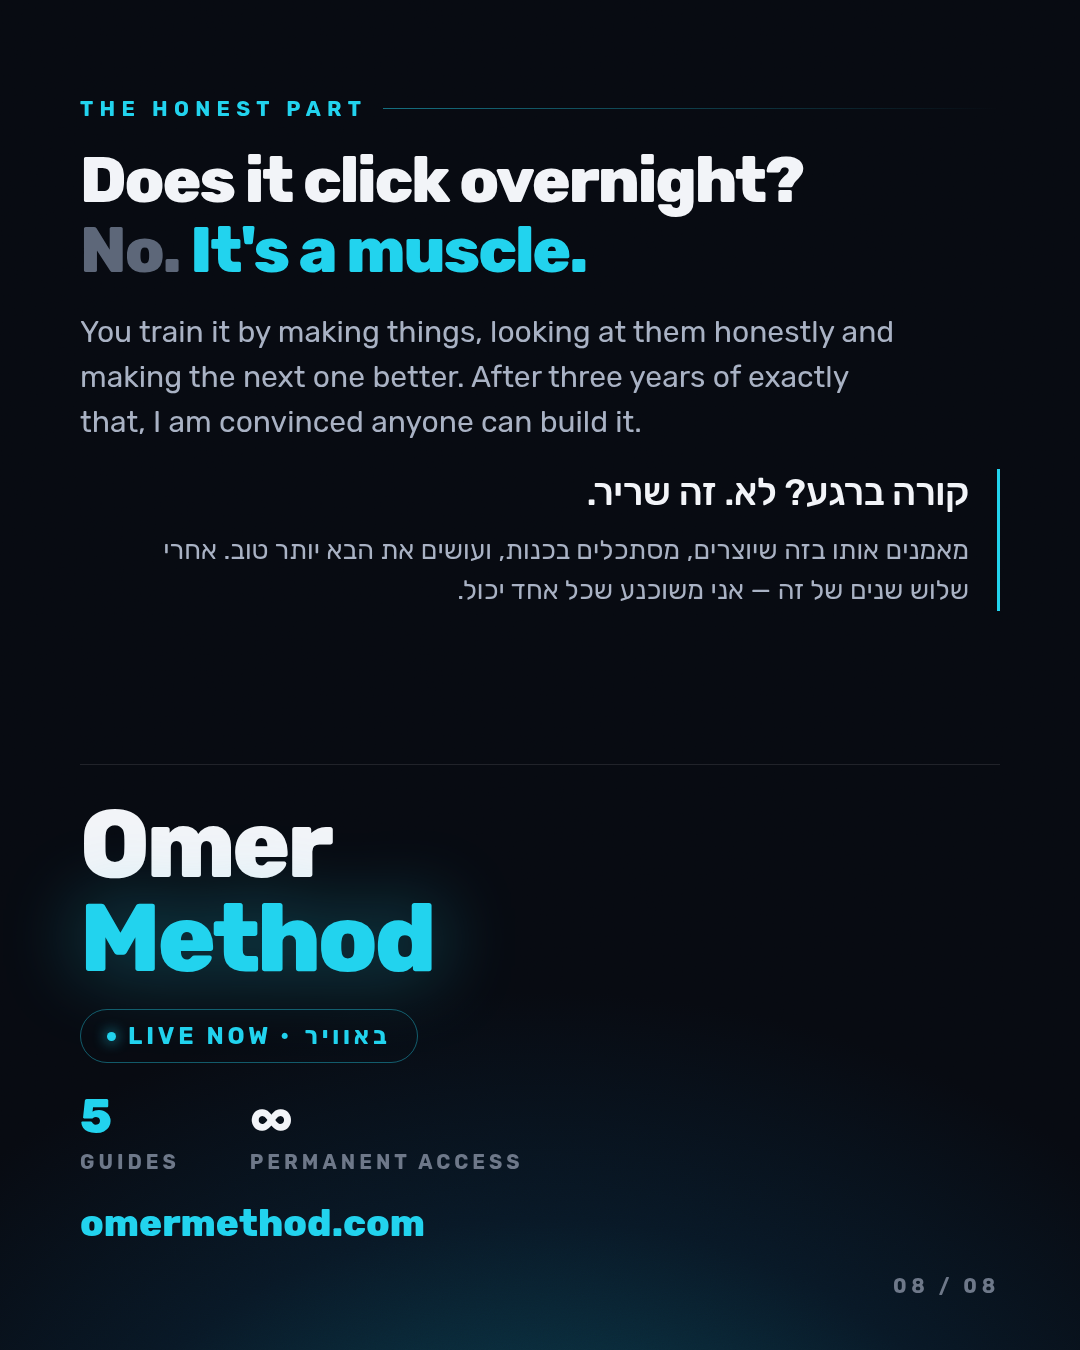
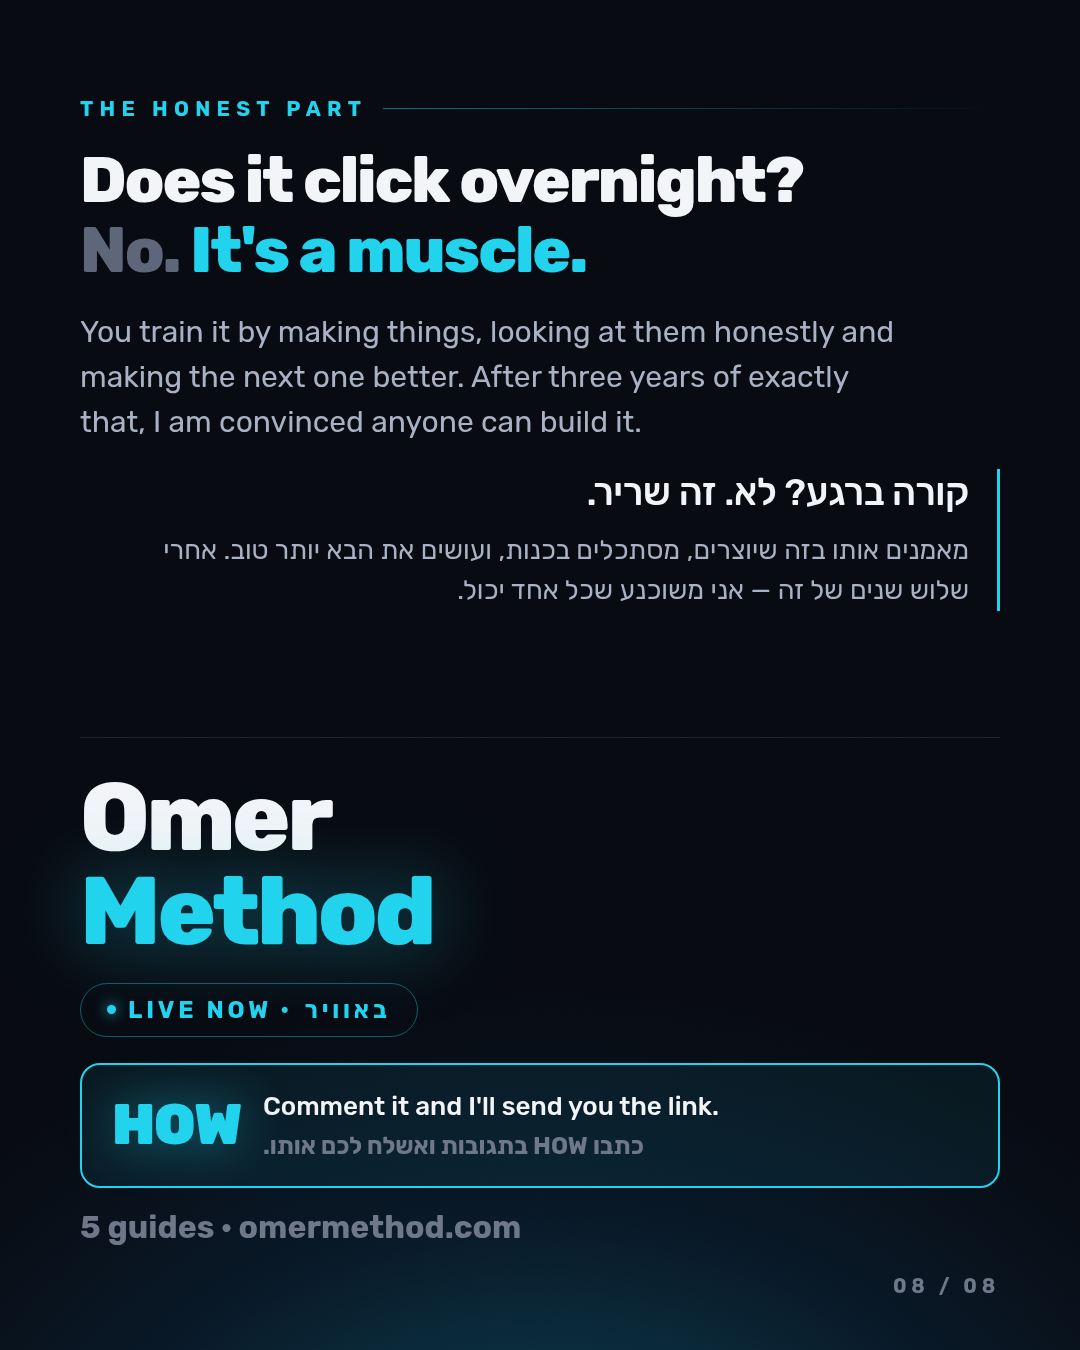
Switch the carousel CTA to a comment keyword
Replaces "link in bio" with commenting HOW. The carousel argues that
people ask how, so asking them to comment that exact word closes the loop
on itself, and it demonstrates the method while selling it — the keyword
mechanic is the same one slide 05 shows working.

Comments also push reach harder than a bio tap, and each reply opens a
DM, which is a warmer place to send a paid link than a profile link.

The closing slide carries the keyword block so the artwork and the
caption ask for the same action.

Claude-Session: https://claude.ai/code/session_0113ue75zsKk6knXSw8ei82D

Changed region(s): [[0.0611, 0.56, 0.6722, 0.9333]]

diff --git a/omer-method-launch/03-carousel/carousel.html b/omer-method-launch/03-carousel/carousel.html
@@ -124,7 +124,15 @@ body{background:#14171d;font-family:Rubik,sans-serif;-webkit-font-smoothing:anti
       letter-spacing:.16em;text-transform:uppercase;color:var(--cy);direction:ltr;
       border:1px solid rgba(34,211,238,.4);border-radius:100px;padding:12px 26px}
 .live i{width:9px;height:9px;border-radius:50%;background:var(--cy);box-shadow:0 0 14px var(--cy)}
-.url{font-size:38px;font-weight:800;direction:ltr;color:var(--cy)}
+.url{font-size:32px;font-weight:700;direction:ltr;color:var(--muted)}
+.kw{display:flex;align-items:center;gap:22px;direction:ltr;
+    border:2px solid var(--cy);border-radius:20px;padding:24px 30px;
+    background:rgba(34,211,238,.07)}
+.kw .w{font-size:56px;font-weight:900;letter-spacing:-.02em;color:var(--cy);
+       filter:drop-shadow(0 0 26px rgba(34,211,238,.45))}
+.kw .t{font-size:26px;font-weight:500;line-height:1.35;color:var(--paper)}
+.kw .t b{display:block;font-weight:700;font-size:24px;color:var(--muted);
+         direction:rtl;text-align:left;margin-top:6px}
 .scope{display:flex;gap:70px;direction:ltr}
 .scope .n{font-size:48px;font-weight:800;letter-spacing:-.03em;line-height:1}
 .scope .n .cy{color:var(--cy)}
@@ -300,11 +308,11 @@ body{background:#14171d;font-family:Rubik,sans-serif;-webkit-font-smoothing:anti
     <div class="rule" style="margin-bottom:32px"></div>
     <div class="mark">Omer<br><span class="cy">Method</span></div>
     <div style="margin-top:24px"><span class="live"><i></i>Live now · <bdi>באוויר</bdi></span></div>
-    <div class="scope" style="margin-top:30px">
-      <div><div class="n"><span class="cy">5</span></div><div class="l">guides</div></div>
-      <div><div class="n">&infin;</div><div class="l">permanent access</div></div>
+    <div class="kw" style="margin-top:26px">
+      <div class="w">HOW</div>
+      <div class="t">Comment it and I'll send you the link.<b>כתבו <bdi>HOW</bdi> בתגובות ואשלח לכם אותו.</b></div>
     </div>
-    <div class="url" style="margin-top:26px">omermethod.com</div>
+    <div class="url" style="margin-top:20px">5 guides &middot; omermethod.com</div>
   </div>
   <div class="num">08 / 08</div>
 </section>

diff --git a/omer-method-launch/03-carousel/caption.md b/omer-method-launch/03-carousel/caption.md
@@ -17,13 +17,13 @@ I built Monica, an AI singer who does not exist. People kept asking where they c
 
 That is the whole thing. The AI was never the interesting part — the how was.
 
-So what is the how? It's the questions you ask before you ever write a prompt, and the order you ask them in. A set of questions and a way of thinking that gets you to a far sharper, more precise result than guessing at prompts ever will.
+So what is the how? It's the questions you ask before you ever write a prompt, and the order you ask them in. A way of thinking that gets you to a far sharper, more precise result than guessing at prompts ever will.
 
 And the hard part isn't the prompt. It's the one you have with yourself — working out where you fit inside the method. That is what the five guides spend their time on.
 
 Does it click overnight? No. It's a muscle. But after three years of exactly this, I'm convinced anyone can build it.
 
-Link in bio → omermethod.com
+Comment HOW and I'll send you the link.
 
 —
 
@@ -35,13 +35,13 @@ Link in bio → omermethod.com
 
 זה כל הסיפור. ה-AI מעולם לא היה החלק המעניין — ה"איך" היה.
 
-אז מה ה"איך"? השאלות שאתם שואלים לפני שאתם כותבים פרומפט, ובאיזה סדר. מערכת של שאלות ודרך חשיבה שמביאה לתוצאה הרבה יותר חדה ומדויקת ממה שניחוש פרומפטים ייתן אי פעם.
+אז מה ה"איך"? השאלות שאתם שואלים לפני שאתם כותבים פרומפט, ובאיזה סדר. דרך חשיבה שמביאה לתוצאה הרבה יותר חדה ומדויקת ממה שניחוש פרומפטים ייתן אי פעם.
 
 והחלק הקשה הוא לא הפרומפט. הוא זה שמולכם — להבין איפה נכון לכם להשתלב בתוך השיטה. על זה חמשת המדריכים.
 
 קורה ברגע? לא. זה שריר. אבל אחרי שלוש שנים של בדיוק זה — אני משוכנע שכל אחד יכול.
 
-הלינק בביו ← omermethod.com
+כתבו HOW בתגובות ואשלח לכם את הקישור.
 ```
 
 ## Hashtags
@@ -58,7 +58,8 @@ Link in bio → omermethod.com
 |---|---|
 | **Order** | Eight slides, `slide-01` → `slide-08`, no reordering. Slide 05 is the payload and the sequence builds to it. |
 | **Pin it** | Profile → post → ⋯ → Pin to your profile. |
-| **First comment** | Put the link there too. People who read the caption on mobile often never reach the bio. |
+| **The keyword** | `HOW`. Reply to every comment with the link — by hand, or with a DM tool (ManyChat and similar). **Set this up before you post**; a keyword nobody answers is worse than no keyword. |
+| **First comment** | Leave the link there as well, for people who would rather not comment. |
 | **Alt text** | Worth adding on slides 01, 03 and 04 — they carry faces and no descriptive copy. |
 | **Grid crop** | Slide 01 is composed so its centre square survives the profile-grid crop. Do not swap another slide into first position without re-checking that. |
 
@@ -82,3 +83,18 @@ The carousel and the caption now run the same thread: people ask **how**, and
 the how is the order of decisions. Slide 02 sets it up, slide 06 answers it.
 Before this pass slide 02 argued that the question was *wrong*, which nothing
 downstream ever picked back up — it read as a detour.
+
+## Why a keyword instead of "link in bio"
+
+The carousel's whole argument is that people ask **how**. Asking them to comment
+that exact word closes the loop on itself, which is what makes it stick.
+
+It also demonstrates the method while selling it — the keyword mechanic is the
+same one that filled a column with a single word on an earlier post, and slide
+05 shows that happening. The post does the thing it is describing.
+
+Practically: comments push reach far harder than a bio tap, and every reply
+opens a DM, which is a warmer place to send a paid link than a profile link is.
+
+**The cost:** it only works if the replies actually go out. Set up the
+automation, or block time to answer by hand, before publishing.
